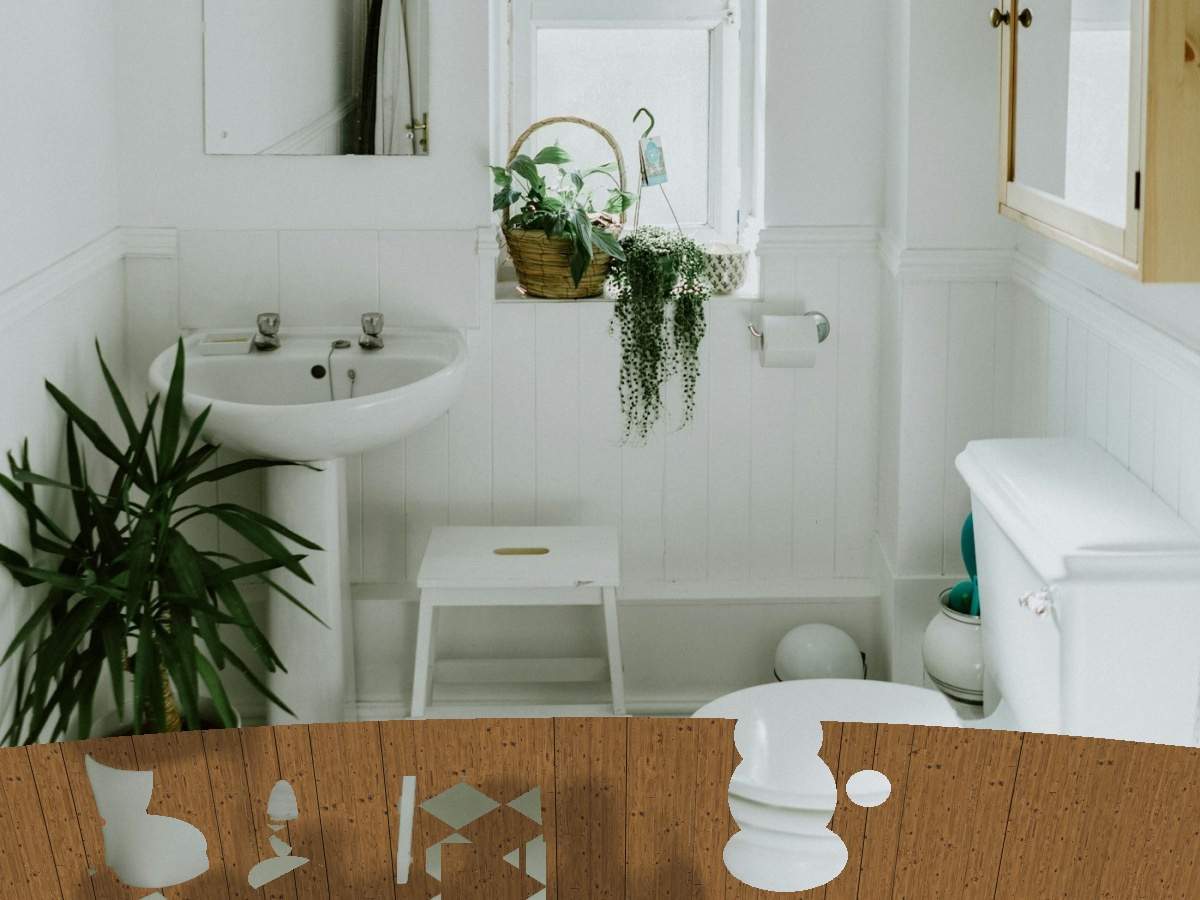
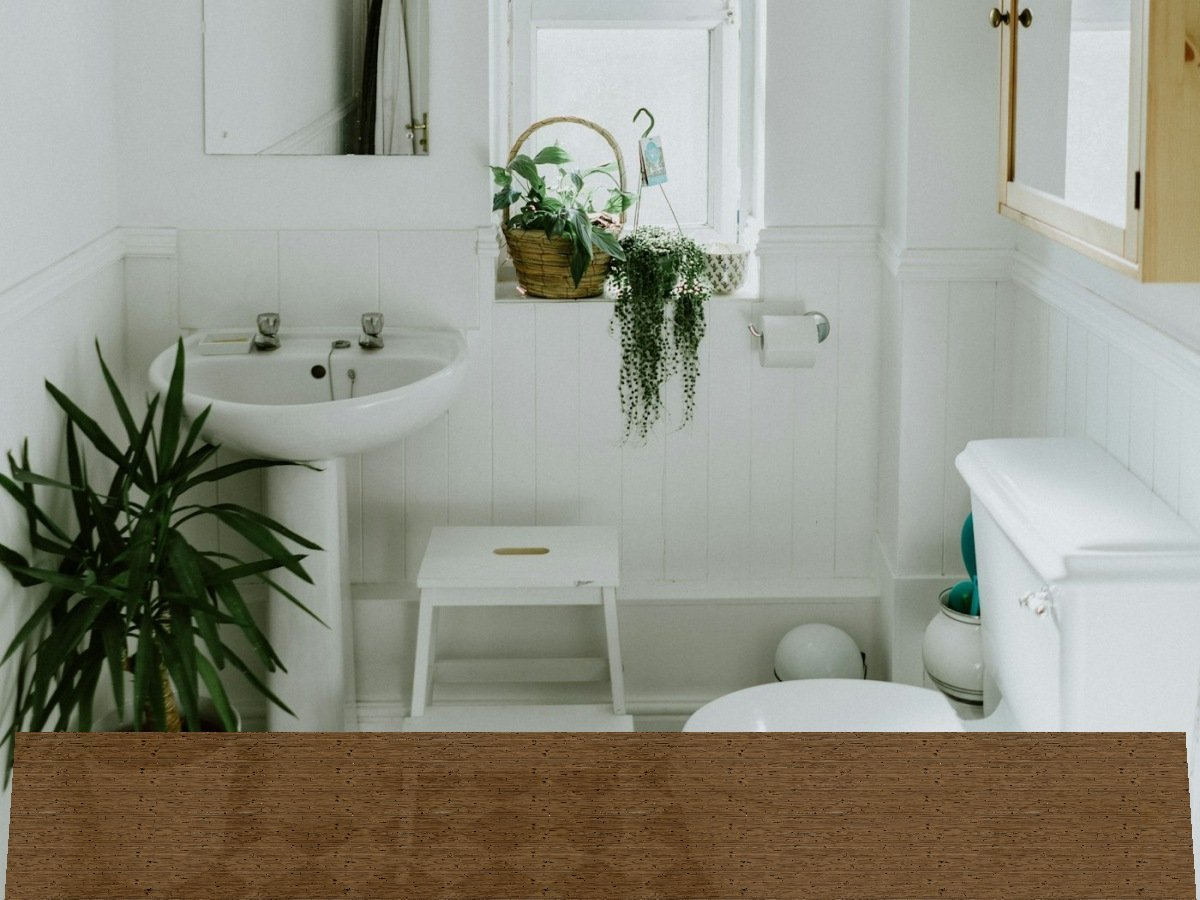
Replace open+bath gallery afters with Visualize-faithful overlays.
Hide corner markers/outline during Download PNG and gallery save.
Export open (warm oak) and bath (medium oak) via bilinear floor warp
matching visualize.js rebuildFloor; update blurbs and cache-bust ?v=20260930i.
Living after unchanged (?v=20260930f).

Changed region(s): [[0.0, 0.7778, 1.0, 1.0]]

diff --git a/projects.js b/projects.js
@@ -46,9 +46,9 @@ function seedProjects() {
       flooring: "LVP",
       role: "customer",
       notes:
-        "Example composite: checkered bath floor visible in before; medium oak plank look in after (not a finished install photo).",
+        "Visualize-tool overlay: medium oak LVP texture warped onto the bath photo via the site's four-corner floor preview (not a finished install photo; furniture/fixtures stay under the overlay).",
       before: [{ src: "gallery/before-bath-checkered.jpg?v=20260930b", label: "Before" }],
-      after: [{ src: "gallery/after-bath-medium-oak.jpg?v=20260930h", label: "After" }],
+      after: [{ src: "gallery/after-bath-medium-oak.jpg?v=20260930i", label: "After" }],
       createdAt: "2026-02-03T15:00:00.000Z"
     },
     {
@@ -59,9 +59,9 @@ function seedProjects() {
       flooring: "LVP",
       role: "customer",
       notes:
-        "Example composite: warm oak plank look on the open-plan before photo (not a finished install photo).",
+        "Visualize-tool overlay: warm oak LVP texture warped onto the open-plan photo via the site's four-corner floor preview (not a finished install photo; furniture stays under the overlay).",
       before: [{ src: "gallery/before-open-carpet.jpg?v=20260930b", label: "Before" }],
-      after: [{ src: "gallery/after-open-warm-oak.jpg?v=20260930h", label: "After" }],
+      after: [{ src: "gallery/after-open-warm-oak.jpg?v=20260930i", label: "After" }],
       createdAt: "2026-03-20T18:00:00.000Z"
     }
   ];

diff --git a/visualize.js b/visualize.js
@@ -642,6 +642,17 @@ window.addEventListener("resize", () => {
   if (el) el.addEventListener("input", updateMeasureUI);
 });
 
+function withHiddenMarkers(fn) {
+  const prevVisible = markers.visible;
+  markers.visible = false;
+  try {
+    return fn();
+  } finally {
+    markers.visible = prevVisible;
+    render();
+  }
+}
+
 if (downloadPngBtn) {
   downloadPngBtn.addEventListener("click", () => {
     if (!photoMesh || corners.length !== 4) {
@@ -649,7 +660,7 @@ if (downloadPngBtn) {
       return;
     }
     const a = document.createElement("a");
-    a.href = canvasSnapshotDataUrl();
+    a.href = withHiddenMarkers(() => canvasSnapshotDataUrl());
     a.download = "vinyl-or-not-visualize.png";
     a.click();
     if (shareStatus) shareStatus.textContent = "PNG downloaded.";
@@ -667,7 +678,7 @@ if (saveGalleryBtn) {
     }
     saveGalleryBtn.disabled = true;
     try {
-      const afterPng = canvasSnapshotDataUrl();
+      const afterPng = withHiddenMarkers(() => canvasSnapshotDataUrl());
       const afterJpeg = await compressDataUrl(afterPng, 1400, 0.78);
       let beforeSrc = photoOriginalDataUrl;
       if (!beforeSrc && photoUrl) {

diff --git a/scripts/export_visualize_afters.py b/scripts/export_visualize_afters.py
@@ -1,0 +1,206 @@
+#!/usr/bin/env python3
+"""Offline Visualize-faithful floor overlay (matches visualize.js rebuildFloor).
+
+Bilinear subdivided quad (seg=48), tiled UVs, MeshBasicMaterial opacity 0.92.
+No furniture masking — honest Visualize behavior.
+"""
+from __future__ import annotations
+
+from pathlib import Path
+
+import cv2
+import numpy as np
+
+ROOT = Path(__file__).resolve().parents[1]
+GALLERY = ROOT / "gallery"
+TEXTURES = ROOT / "textures"
+OUT_DIR = ROOT / "scripts" / "_viz_exports"
+OUT_DIR.mkdir(parents=True, exist_ok=True)
+
+SEG = 48
+OPACITY = 0.92
+# Default tile-scale=6; warm-oak/medium-oak repeat=[6,6] => baseU=baseV=6
+TILE_SCALE = 6.0
+REPEAT = (6.0, 6.0)
+
+
+def bilinear_point(fl, fr, br, bl, tx, ty):
+    """Same as visualize.js: bottom=FL->FR, top=BL->BR, p=bottom->top."""
+    bottom = fl * (1 - tx) + fr * tx
+    top = bl * (1 - tx) + br * tx
+    return bottom * (1 - ty) + top * ty
+
+
+def build_mesh(corners_xy):
+    """corners_xy: list of 4 (x,y) image-pixel coords FL,FR,BR,BL."""
+    fl, fr, br, bl = [np.array(c, dtype=np.float64) for c in corners_xy]
+    base_u = (REPEAT[0] / 6.0) * TILE_SCALE
+    base_v = (REPEAT[1] / 6.0) * TILE_SCALE
+    positions = []
+    uvs = []
+    for j in range(SEG + 1):
+        ty = j / SEG
+        for i in range(SEG + 1):
+            tx = i / SEG
+            p = bilinear_point(fl, fr, br, bl, tx, ty)
+            positions.append(p)
+            uvs.append((tx * base_u, ty * base_v))
+    positions = np.asarray(positions, dtype=np.float64)
+    uvs = np.asarray(uvs, dtype=np.float64)
+    tris = []
+    for j in range(SEG):
+        for i in range(SEG):
+            a = j * (SEG + 1) + i
+            b = a + 1
+            c = a + (SEG + 1)
+            d = c + 1
+            # Same winding as Three.js indices: a,c,b and b,c,d
+            tris.append((a, c, b))
+            tris.append((b, c, d))
+    return positions, uvs, np.asarray(tris, dtype=np.int32)
+
+
+def sample_texture(tex, u, v):
+    """Repeat-wrap UV sample with bilinear filtering. tex is BGR uint8 HxWx3.
+    Three.js flipY=true: V=0 at image bottom.
+    """
+    h, w = tex.shape[:2]
+    # wrap
+    u = u - np.floor(u)
+    v = v - np.floor(v)
+    # flipY: v_img = 1-v maps to top of file at v=1
+    x = u * (w - 1)
+    y = (1.0 - v) * (h - 1)
+    x0 = np.floor(x).astype(np.int32)
+    y0 = np.floor(y).astype(np.int32)
+    x1 = np.minimum(x0 + 1, w - 1)
+    y1 = np.minimum(y0 + 1, h - 1)
+    fx = x - x0
+    fy = y - y0
+    c00 = tex[y0, x0].astype(np.float64)
+    c10 = tex[y0, x1].astype(np.float64)
+    c01 = tex[y1, x0].astype(np.float64)
+    c11 = tex[y1, x1].astype(np.float64)
+    return (
+        c00 * (1 - fx)[:, None] * (1 - fy)[:, None]
+        + c10 * fx[:, None] * (1 - fy)[:, None]
+        + c01 * (1 - fx)[:, None] * fy[:, None]
+        + c11 * fx[:, None] * fy[:, None]
+    )
+
+
+def rasterize_overlay(before_bgr, tex_bgr, corners_xy):
+    """Rasterize bilinear floor mesh onto a copy of before; return BGR uint8."""
+    h, w = before_bgr.shape[:2]
+    positions, uvs, tris = build_mesh(corners_xy)
+    # Accumulate coverage + color in float buffers
+    acc = np.zeros((h, w, 3), dtype=np.float64)
+    weight = np.zeros((h, w), dtype=np.float64)
+
+    for a, b, c in tris:
+        pts = positions[[a, b, c]]
+        uv = uvs[[a, b, c]]
+        # bounding box
+        minx = max(int(np.floor(pts[:, 0].min())), 0)
+        maxx = min(int(np.ceil(pts[:, 0].max())), w - 1)
+        miny = max(int(np.floor(pts[:, 1].min())), 0)
+        maxy = min(int(np.ceil(pts[:, 1].max())), h - 1)
+        if minx > maxx or miny > maxy:
+            continue
+        # barycentric over bbox
+        xs = np.arange(minx, maxx + 1)
+        ys = np.arange(miny, maxy + 1)
+        xx, yy = np.meshgrid(xs, ys)
+        px = xx.ravel().astype(np.float64)
+        py = yy.ravel().astype(np.float64)
+
+        v0 = pts[2] - pts[0]
+        v1 = pts[1] - pts[0]
+        v2x = px - pts[0, 0]
+        v2y = py - pts[0, 1]
+        den = v0[0] * v1[1] - v1[0] * v0[1]
+        if abs(den) < 1e-9:
+            continue
+        # bary for vertices 0,1,2 corresponding to a,b,c with:
+        # P = (1-w1-w2)*A + w1*B + w2*C  where A=pts[0], B=pts[1], C=pts[2]
+        # Using edge method:
+        inv = 1.0 / den
+        w_c = (v2x * v1[1] - v1[0] * v2y) * inv  # weight for pts[2]
+        w_b = (v0[0] * v2y - v2x * v0[1]) * inv  # weight for pts[1]
+        w_a = 1.0 - w_b - w_c
+        inside = (w_a >= -1e-5) & (w_b >= -1e-5) & (w_c >= -1e-5)
+        if not np.any(inside):
+            continue
+        ia = w_a[inside]
+        ib = w_b[inside]
+        ic = w_c[inside]
+        su = ia * uv[0, 0] + ib * uv[1, 0] + ic * uv[2, 0]
+        sv = ia * uv[0, 1] + ib * uv[1, 1] + ic * uv[2, 1]
+        colors = sample_texture(tex_bgr, su, sv)
+        xi = px[inside].astype(np.int32)
+        yi = py[inside].astype(np.int32)
+        # last-write / overwrite — triangles don't overlap interior
+        acc[yi, xi] = colors
+        weight[yi, xi] = 1.0
+
+    out = before_bgr.astype(np.float64)
+    m = weight > 0
+    out[m] = out[m] * (1.0 - OPACITY) + acc[m] * OPACITY
+    return np.clip(out, 0, 255).astype(np.uint8), weight
+
+
+def export_job(name, before_path, tex_path, corners, out_png, out_jpg):
+    before = cv2.imread(str(before_path))
+    tex = cv2.imread(str(tex_path))
+    assert before is not None and tex is not None
+    after, weight = rasterize_overlay(before, tex, corners)
+    cov = float((weight > 0).mean())
+    print(f"{name}: size={before.shape[1]}x{before.shape[0]} coverage={cov:.4f}")
+    cv2.imwrite(str(out_png), after)
+    cv2.imwrite(str(out_jpg), after, [int(cv2.IMWRITE_JPEG_QUALITY), 85])
+    # annotate corners for QA
+    ann = after.copy()
+    for i, (x, y) in enumerate(corners):
+        cv2.circle(ann, (int(x), int(y)), 8, (0, 255, 255), 2)
+        cv2.putText(ann, str(i + 1), (int(x) + 10, int(y) - 10), cv2.FONT_HERSHEY_SIMPLEX, 0.7, (0, 255, 255), 2)
+    cv2.imwrite(str(OUT_DIR / f"{name}-corners-qa.jpg"), ann, [int(cv2.IMWRITE_JPEG_QUALITY), 85])
+    return after
+
+
+def main():
+    # Open: wall/floor junctions; full carpet span (furniture gets overlay — honest)
+    open_corners = [
+        (8, 798),     # FL
+        (1192, 798),  # FR
+        (1192, 560),  # BR — right wall junction
+        (8, 538),     # BL — left under-window junction
+    ]
+    # Bath: floor/baseboard only — planks low
+    bath_corners = [
+        (4, 899),     # FL
+        (1196, 899),  # FR
+        (1185, 732),  # BR
+        (15, 732),    # BL
+    ]
+
+    export_job(
+        "open",
+        GALLERY / "before-open-carpet.jpg",
+        TEXTURES / "warm-oak.jpg",
+        open_corners,
+        OUT_DIR / "open-warm-oak.png",
+        OUT_DIR / "open-warm-oak.jpg",
+    )
+    export_job(
+        "bath",
+        GALLERY / "before-bath-checkered.jpg",
+        TEXTURES / "medium-oak.jpg",
+        bath_corners,
+        OUT_DIR / "bath-medium-oak.png",
+        OUT_DIR / "bath-medium-oak.jpg",
+    )
+    print("done")
+
+
+if __name__ == "__main__":
+    main()
